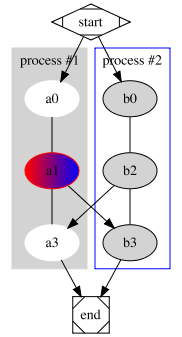
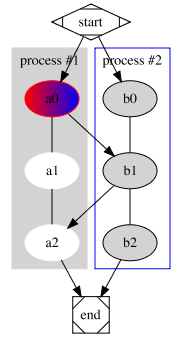
release also non used Graphviz engines

diff --git a/graphviz-rough/src/test/java/guru/nidi/graphviz/rough/ReadmeTest.java b/graphviz-rough/src/test/java/guru/nidi/graphviz/rough/ReadmeTest.java
@@ -41,21 +41,21 @@ class ReadmeTest {
                 graph().cluster()
                         .nodeAttr().with(Style.FILLED, Color.WHITE)
                         .graphAttr().with(Style.FILLED, Color.LIGHTGREY, Label.of("process #1"))
-                        .with(node("a0").link(node("a1").link(node("a3")))),
+                        .with(node("a0").link(node("a1").link(node("a2")))),
                 graph("x").cluster()
                         .nodeAttr().with(Style.FILLED)
                         .graphAttr().with(Color.BLUE, Label.of("process #2"))
-                        .with(node("b0").link(node("b2").link(node("b3")))),
+                        .with(node("b0").link(node("b1").link(node("b2")))),
                 node("start").with(Shape.mDiamond("", "")).link("a0", "b0"),
-                node("a1").with(Style.FILLED, Color.RED.gradient(Color.BLUE)).link("b3"),
-                node("b2").link("a3"),
-                node("a3").link("end"),
-                node("b3").link("end"),
+                node("a0").with(Style.FILLED, Color.RED.gradient(Color.BLUE)).link("b1"),
+                node("b1").link("a2"),
+                node("a2").link("end"),
+                node("b2").link("end"),
                 node("end").with(Shape.mSquare("", ""))
         );
 
         Graphviz.fromGraph(g)
-                .filter(new RoughFilter(new V8JavascriptEngine())
+                .filter(new RoughFilter()
                         .bowing(2)
                         .roughness(1)
                         .fillStyle(FillStyle.hachure().width(2).gap(5).angle(0))

diff --git a/graphviz-java/src/main/java/guru/nidi/graphviz/engine/Graphviz.java b/graphviz-java/src/main/java/guru/nidi/graphviz/engine/Graphviz.java
@@ -35,7 +35,7 @@ public final class Graphviz {
     @Nullable
     private static volatile BlockingQueue<GraphvizEngine> engineQueue;
     @Nullable
-    private static GraphvizEngine engine;
+    private static volatile GraphvizEngine engine;
 
     private final String src;
     @Nullable
@@ -123,15 +123,26 @@ public final class Graphviz {
     }
 
     public static void releaseEngine() {
-        if (engine != null) {
-            try {
-                engine.close();
-            } catch (Exception e) {
-                throw new GraphvizException("Problem closing engine", e);
+        synchronized (Graphviz.class) {
+            if (engine != null) {
+                doReleaseEngine(engine);
+            }
+            if (engineQueue != null) {
+                for (final GraphvizEngine engine : engineQueue) {
+                    doReleaseEngine(engine);
+                }
             }
         }
         engine = null;
         engineQueue = null;
+    }
+
+    private static void doReleaseEngine(GraphvizEngine engine) {
+        try {
+            engine.close();
+        } catch (Exception e) {
+            throw new GraphvizException("Problem closing engine", e);
+        }
     }
 
     public static Graphviz fromFile(File src) throws IOException {

diff --git a/README.md b/README.md
@@ -416,16 +416,16 @@ final Graph g = graph("ex1").directed().with(
         graph().cluster()
                 .nodeAttr().with(Style.FILLED, Color.WHITE)
                 .graphAttr().with(Style.FILLED, Color.LIGHTGREY, Label.of("process #1"))
-                .with(node("a0").link(node("a1").link(node("a3")))),
+                .with(node("a0").link(node("a1").link(node("a2")))),
         graph("x").cluster()
                 .nodeAttr().with(Style.FILLED)
                 .graphAttr().with(Color.BLUE, Label.of("process #2"))
-                .with(node("b0").link(node("b2").link(node("b3")))),
+                .with(node("b0").link(node("b1").link(node("b2")))),
         node("start").with(Shape.mDiamond("", "")).link("a0", "b0"),
-        node("a1").with(Style.FILLED, Color.RED.gradient(Color.BLUE)).link("b3"),
-        node("b2").link("a3"),
-        node("a3").link("end"),
-        node("b3").link("end"),
+        node("a0").with(Style.FILLED, Color.RED.gradient(Color.BLUE)).link("b1"),
+        node("b1").link("a2"),
+        node("a2").link("end"),
+        node("b2").link("end"),
         node("end").with(Shape.mSquare("", ""))
 );
 
